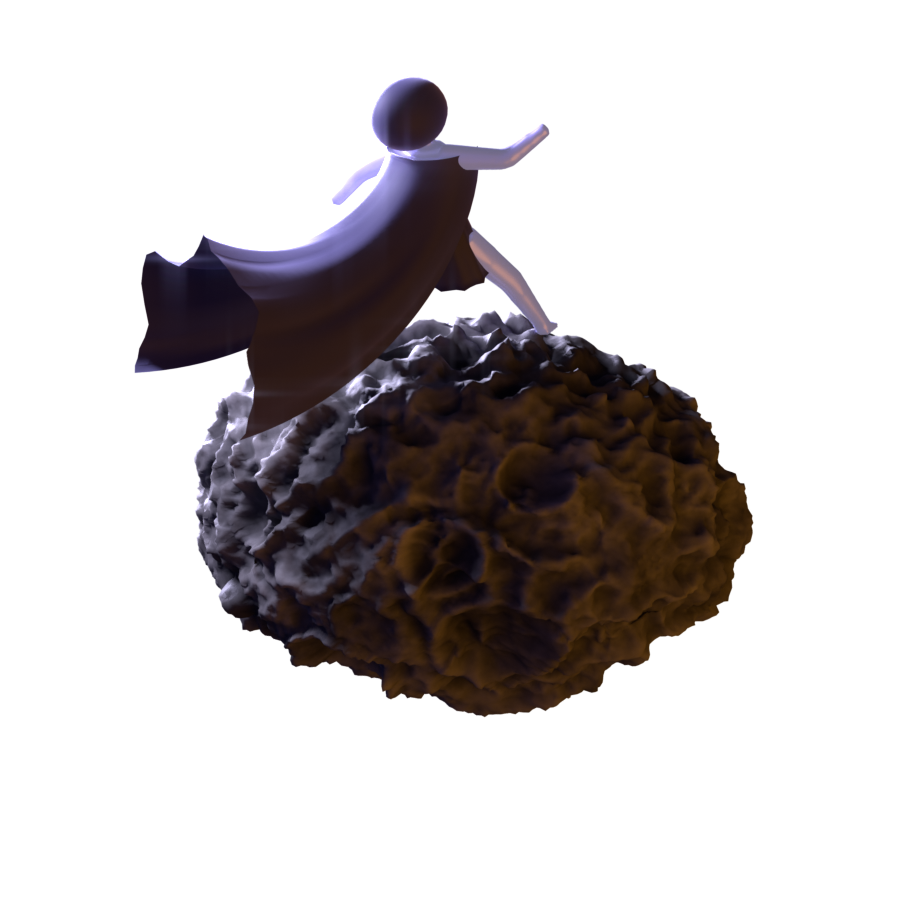
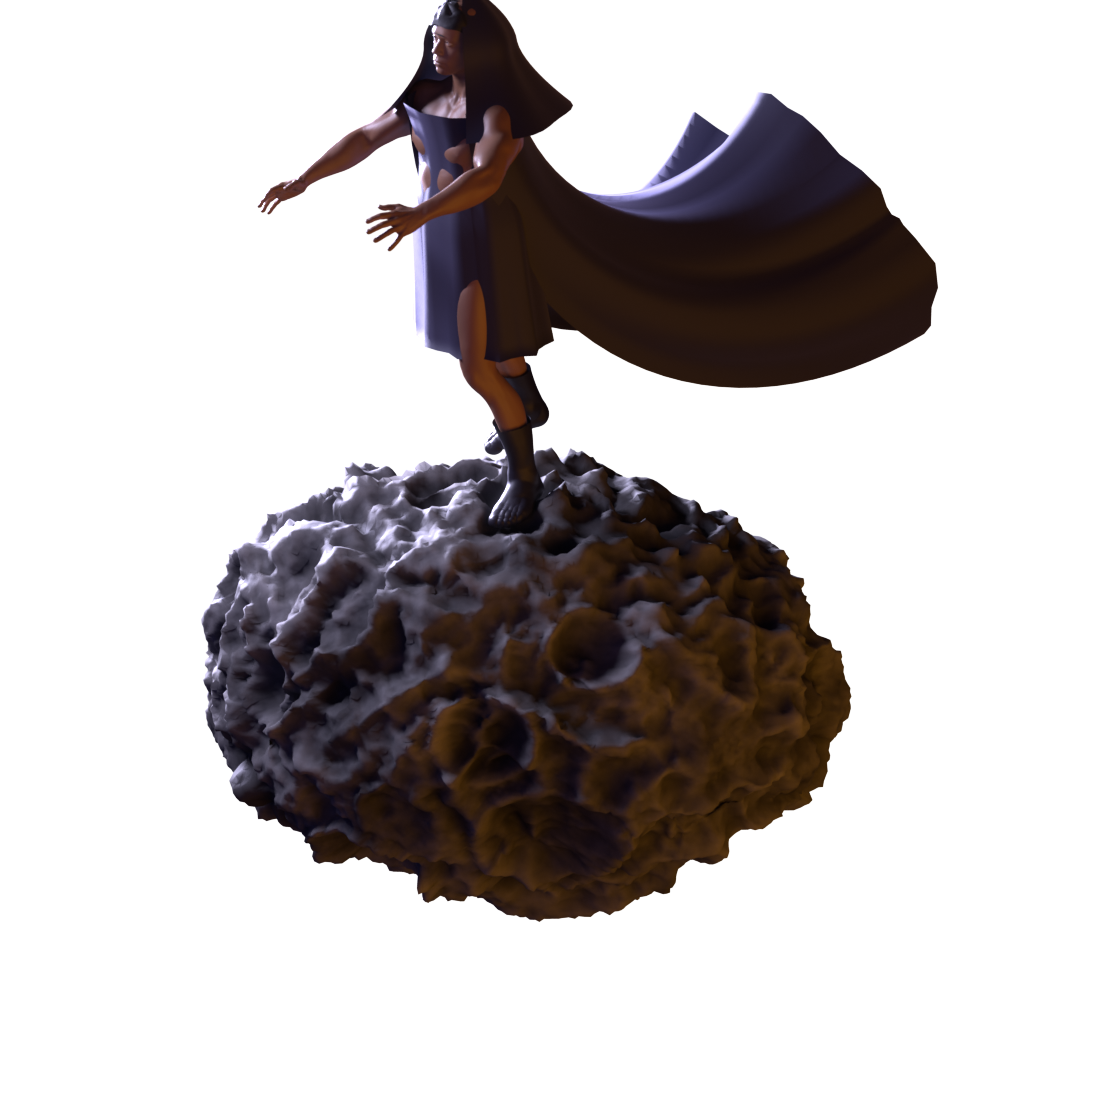
Dress the figure, plant it on the rock, fix the alpha channel
- Boots cut from a duplicate of the body's own lower legs and pushed out
  along their normals, so they fit whatever the pose did rather than being
  modelled against guessed foot positions.
- Soles planted on the surface using the measured sole height of the BODY.
  Using the joined object put the cape hem — which hangs lower — on the rock
  and left the figure hovering above it.
- Alpha was being destroyed in the compositor: Glare outputs opaque RGB, so
  routing it straight to the group output returned the asset on solid black.
  SetAlpha puts the render's own alpha back.
- Glare was firing diffraction spikes across the frame because its Type menu
  takes the display label ("Bloom"), not the identifier ("BLOOM"), so the
  assignment silently kept the default streak glare.
- Figure scaled up to read as the subject rather than a detail on the rock.

Changed region(s): [[0.1556, 0.0, 0.8711, 0.84]]

diff --git a/scripts/blender/asteroid.py b/scripts/blender/asteroid.py
@@ -38,13 +38,13 @@ AMBER_BRIGHT = "EF9F27"
 VIOLET_PALE = "CECBF6"
 VIOLET_SOFT = "7F77DD"
 VIOLET_DIM = "3C3489"
-CLOAK_FABRIC = "2A2550"
+CLOAK_FABRIC = "1B1733"
 # NOTE: these are albedo, not the colour you want to SEE. sRGB #1E1D1C is
 # ~1.4% reflectance in linear space — near-black, and no amount of light
 # rescues it. Real rock sits around 0.05-0.15. The rendered result still
 # reads dark because the lighting is directional; opacity on the web side
 # does the final dimming.
-RIDER_H = 0.92   # figure height, in asteroid-radius units
+RIDER_H = 1.45   # figure height, in asteroid-radius units (rock is ~1.0)
 
 ROCK_DARK = "34322F"
 ROCK_LIGHT = "6E6B66"
@@ -315,7 +315,7 @@ def cloak_material():
     set_input(bsdf, "Roughness", 0.68)
     # Sheen is what makes cloth read as cloth rather than painted plastic — it
     # lifts the grazing angles where folds turn away from camera.
-    set_input(bsdf, ["Sheen Weight", "Sheen"], 0.7)
+    set_input(bsdf, ["Sheen Weight", "Sheen"], 0.35)
     set_input(bsdf, "Sheen Tint", hex_rgba(VIOLET_PALE))
 
     # Fine weave bump. At ambient scale this is invisible; in the close-up it
@@ -719,6 +719,51 @@ def build_hair(H, body, ctr, radius):
     return hair
 
 
+def build_boots(H, body):
+    """Boots, cut from a copy of the body's own lower legs.
+
+    Modelling footwear separately means guessing where the posed feet ended up.
+    Duplicating the leg geometry and pushing it out along its normals means the
+    boot fits by construction, whatever the pose did.
+    """
+    mat = bpy.data.materials.new("Boot")
+    mat.use_nodes = True
+    bsdf = mat.node_tree.nodes["Principled BSDF"]
+    set_input(bsdf, "Base Color", hex_rgba("1A1620"))
+    set_input(bsdf, "Roughness", 0.52)
+    set_input(bsdf, ["Specular IOR Level", "Specular"], 0.4)
+
+    bpy.ops.object.select_all(action="DESELECT")
+    body.select_set(True)
+    bpy.context.view_layer.objects.active = body
+    bpy.ops.object.duplicate()
+    boots = bpy.context.active_object
+    boots.name = "Boots"
+
+    cutoff = 0.185 * H          # mid-calf
+    bm = bmesh.new()
+    bm.from_mesh(boots.data)
+    doomed = [v for v in bm.verts if (boots.matrix_world @ v.co).z > cutoff]
+    bmesh.ops.delete(bm, geom=doomed, context="VERTS")
+    bm.to_mesh(boots.data)
+    bm.free()
+
+    # A textureless Displace offsets every vertex along its own normal, which
+    # is exactly "same shape, slightly larger".
+    d = boots.modifiers.new("Swell", "DISPLACE")
+    d.mid_level = 0.0
+    d.strength = H * 0.008
+    bpy.context.view_layer.objects.active = boots
+    bpy.ops.object.modifier_apply(modifier="Swell")
+    sd = boots.modifiers.new("Solidify", "SOLIDIFY")
+    sd.thickness = H * 0.004
+
+    boots.data.materials.clear()
+    boots.data.materials.append(mat)
+    bpy.ops.object.shade_smooth()
+    return boots
+
+
 def build_brows(H, body, eye_locs):
     """Eyebrows, placed off the solved eye positions.
 
@@ -897,14 +942,21 @@ def build_rider(mat, cloak_mat, height=RIDER_H):
     body, eyes = import_human(H)
     rig_and_pose(body, eyes, H)
 
+    # The pose lifts the feet off local z=0, so the exact sole height has to be
+    # measured from the BODY (not the joined object — the cape hem hangs lower
+    # and would push the figure up off the rock).
+    bpy.context.view_layer.update()
+    foot_z = min((body.matrix_world @ v.co).z for v in body.data.vertices)
+
     brows = build_brows(H, body, [e.location.copy() for e in eyes])
     hair = build_hair(H, body, *head_sphere(body, H))
+    boots = build_boots(H, body)
     cape = build_cape(cloak_mat, H)
     tunic = build_tunic(cloak_mat, H)
     hood = build_hood(cloak_mat, H)
 
     bpy.ops.object.select_all(action="DESELECT")
-    for ob in [body, cape, tunic, hood, hair] + brows:
+    for ob in [body, cape, tunic, hood, hair, boots] + brows:
         ob.select_set(True)
     bpy.context.view_layer.objects.active = body
     bpy.ops.object.join()
@@ -917,7 +969,8 @@ def build_rider(mat, cloak_mat, height=RIDER_H):
         e.parent = rider
         e.matrix_parent_inverse = rider.matrix_world.inverted()
 
-    print(f"[asteroid] rider verts = {len(rider.data.vertices)}")
+    rider["foot_z"] = foot_z
+    print(f"[asteroid] rider verts = {len(rider.data.vertices)}  soles at z={foot_z:.4f}")
     return rider
 
 
@@ -941,7 +994,10 @@ def place_rider(rider, asteroid, rng, spin_deg=-38.0):
     rider.rotation_quaternion = (
         Quaternion(d, math.radians(spin_deg)) @ d.to_track_quat("Z", "Y")
     )
-    rider.location = loc - d * (0.04 * RIDER_H)   # settle the boots into the rock
+    # Plant the soles on the surface: a local point at z=foot_z maps to
+    # location + d*foot_z once local Z is aligned to d.
+    foot_z = rider.get("foot_z", 0.0)
+    rider.location = loc - d * foot_z - d * (0.010 * RIDER_H)   # bite in slightly
     return rider
 
 
@@ -1092,17 +1148,34 @@ def setup_compositor():
         glare = ng.nodes.new("CompositorNodeGlare")
         gout = ng.nodes.new("NodeGroupOutput")
 
-        for sock, val in (("Type", "BLOOM"), ("Quality", "HIGH"),
-                          ("Threshold", 0.72), ("Strength", 0.28),
-                          ("Size", 0.55), ("Smoothness", 0.4)):
+        # The Type socket is a menu whose values are not enumerable from the
+        # API here, so try the bloom-ish ones in order and report what stuck.
+        # The default is a streak/ghost glare, which fired diffraction spikes
+        # across the render.
+        for cand in ("Bloom", "Fog Glow", "BLOOM", "FOG_GLOW"):
+            try:
+                glare.inputs["Type"].default_value = cand
+                break
+            except (TypeError, ValueError):
+                continue
+        for sock, val in (("Quality", "HIGH"), ("Threshold", 0.80),
+                          ("Strength", 0.16), ("Size", 0.45),
+                          ("Smoothness", 0.4)):
             if sock in glare.inputs:
                 try:
                     glare.inputs[sock].default_value = val
                 except (TypeError, ValueError):
                     pass
 
+        # Glare returns opaque RGB, so routing it straight to the output threw
+        # the alpha away and the asset came back on solid black — useless for
+        # compositing onto the page. Put the render's own alpha back.
+        setalpha = ng.nodes.new("CompositorNodeSetAlpha")
         ng.links.new(rl.outputs["Image"], glare.inputs["Image"])
-        ng.links.new(glare.outputs["Image"], gout.inputs[0])
+        ng.links.new(glare.outputs["Image"], setalpha.inputs["Image"])
+        ng.links.new(rl.outputs["Alpha"], setalpha.inputs["Alpha"])
+        ng.links.new(setalpha.outputs["Image"], gout.inputs[0])
+        print(f"[asteroid] glare type = {glare.inputs['Type'].default_value}")
         sc.compositing_node_group = ng
         sc.use_nodes = True
         print("[asteroid] compositor: bloom enabled")
